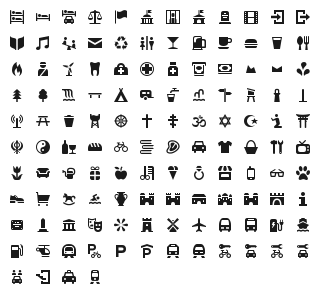
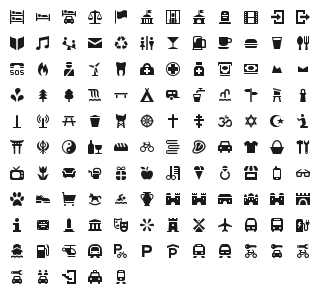
added emergency phone

diff --git a/font/osmic-preview.html b/font/osmic-preview.html
@@ -199,6 +199,7 @@
 .oc-drinking-water:before,
 .oc-electronics:before,
 .oc-embassy:before,
+.oc-emergency-phone:before,
 .oc-entrance:before,
 .oc-exit:before,
 .oc-fast-food:before,
@@ -337,6 +338,7 @@
 .oc-drinking-water:before { content: "\f122"; }
 .oc-electronics:before { content: "\f123"; }
 .oc-embassy:before { content: "\f124"; }
+.oc-emergency-phone:before { content: "\f17d"; }
 .oc-entrance:before { content: "\f171"; }
 .oc-exit:before { content: "\f172"; }
 .oc-fast-food:before { content: "\f125"; }
@@ -437,7 +439,7 @@
   <body class="characters-off">
     <div id="page" class="container">
       <header>
-        <h1>osmic contains 124 glyphs:</h1>
+        <h1>osmic contains 125 glyphs:</h1>
         <a onclick="toggleCharacters(); return false;" href="#">Toggle Preview Characters</a>
       </header>
 
@@ -946,6 +948,19 @@
         <div class="usage">
           <input class="class" type="text" readonly="readonly" onClick="this.select();" value=".oc-embassy" />
           <input class="point" type="text" readonly="readonly" onClick="this.select();" value="&amp;#xf124;" />
+        </div>
+      </div>
+      
+      <div class="glyph">
+        <div class="preview-glyphs">
+          <span class="step size-12"><span class="letters">Pp</span><i id="oc-emergency-phone" class="oc-emergency-phone"></i></span><span class="step size-14"><span class="letters">Pp</span><i id="oc-emergency-phone" class="oc-emergency-phone"></i></span><span class="step size-16"><span class="letters">Pp</span><i id="oc-emergency-phone" class="oc-emergency-phone"></i></span><span class="step size-18"><span class="letters">Pp</span><i id="oc-emergency-phone" class="oc-emergency-phone"></i></span><span class="step size-21"><span class="letters">Pp</span><i id="oc-emergency-phone" class="oc-emergency-phone"></i></span><span class="step size-24"><span class="letters">Pp</span><i id="oc-emergency-phone" class="oc-emergency-phone"></i></span><span class="step size-36"><span class="letters">Pp</span><i id="oc-emergency-phone" class="oc-emergency-phone"></i></span><span class="step size-48"><span class="letters">Pp</span><i id="oc-emergency-phone" class="oc-emergency-phone"></i></span><span class="step size-60"><span class="letters">Pp</span><i id="oc-emergency-phone" class="oc-emergency-phone"></i></span><span class="step size-72"><span class="letters">Pp</span><i id="oc-emergency-phone" class="oc-emergency-phone"></i></span>
+        </div>
+        <div class="preview-scale">
+          <span class="step">12</span><span class="step">14</span><span class="step">16</span><span class="step">18</span><span class="step">21</span><span class="step">24</span><span class="step">36</span><span class="step">48</span><span class="step">60</span><span class="step">72</span>
+        </div>
+        <div class="usage">
+          <input class="class" type="text" readonly="readonly" onClick="this.select();" value=".oc-emergency-phone" />
+          <input class="point" type="text" readonly="readonly" onClick="this.select();" value="&amp;#xf17d;" />
         </div>
       </div>
       

diff --git a/font/osmic.css b/font/osmic.css
@@ -62,6 +62,7 @@
 .oc-drinking-water:before,
 .oc-electronics:before,
 .oc-embassy:before,
+.oc-emergency-phone:before,
 .oc-entrance:before,
 .oc-exit:before,
 .oc-fast-food:before,
@@ -200,6 +201,7 @@
 .oc-drinking-water:before { content: "\f122"; }
 .oc-electronics:before { content: "\f123"; }
 .oc-embassy:before { content: "\f124"; }
+.oc-emergency-phone:before { content: "\f17d"; }
 .oc-entrance:before { content: "\f171"; }
 .oc-exit:before { content: "\f172"; }
 .oc-fast-food:before { content: "\f125"; }
